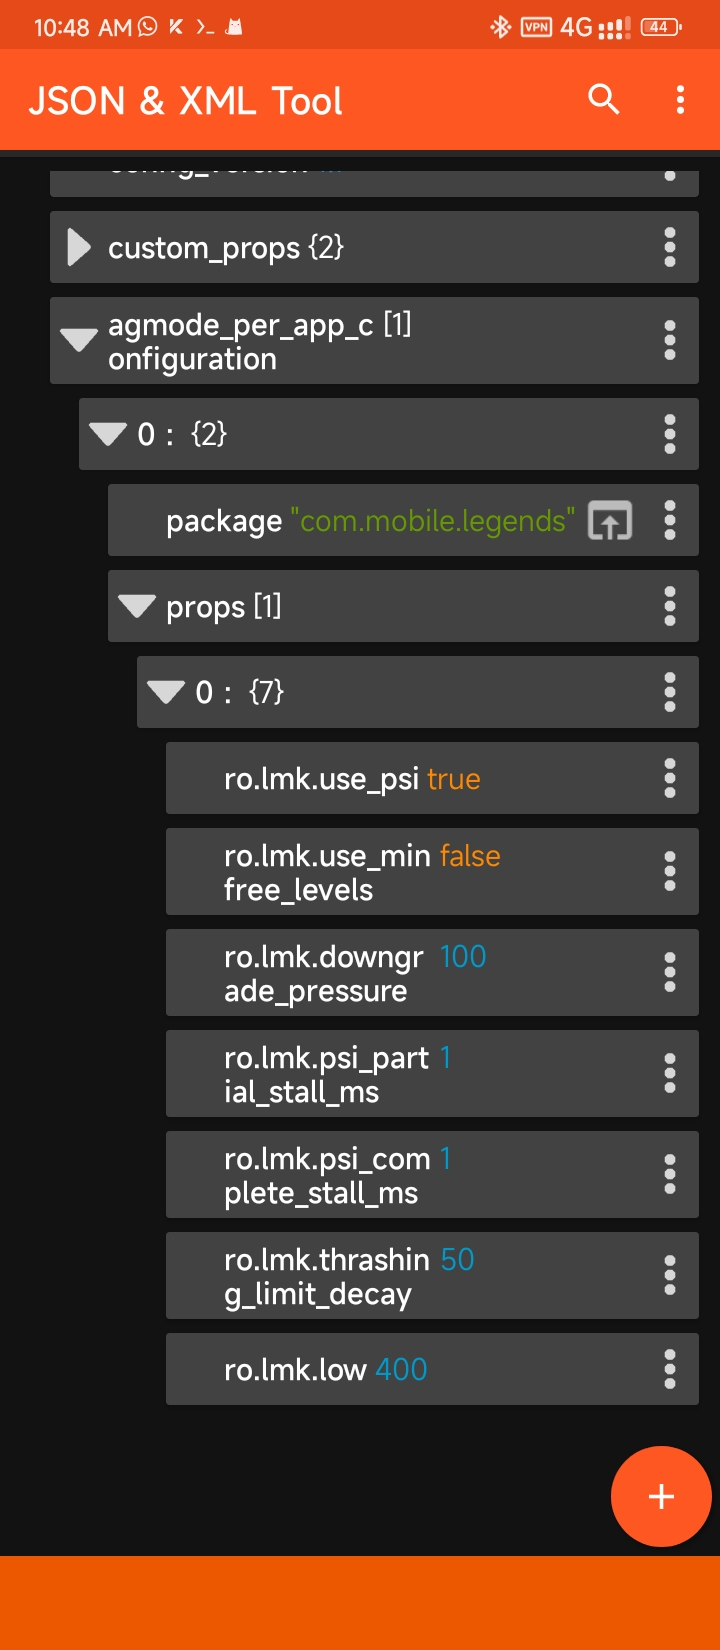
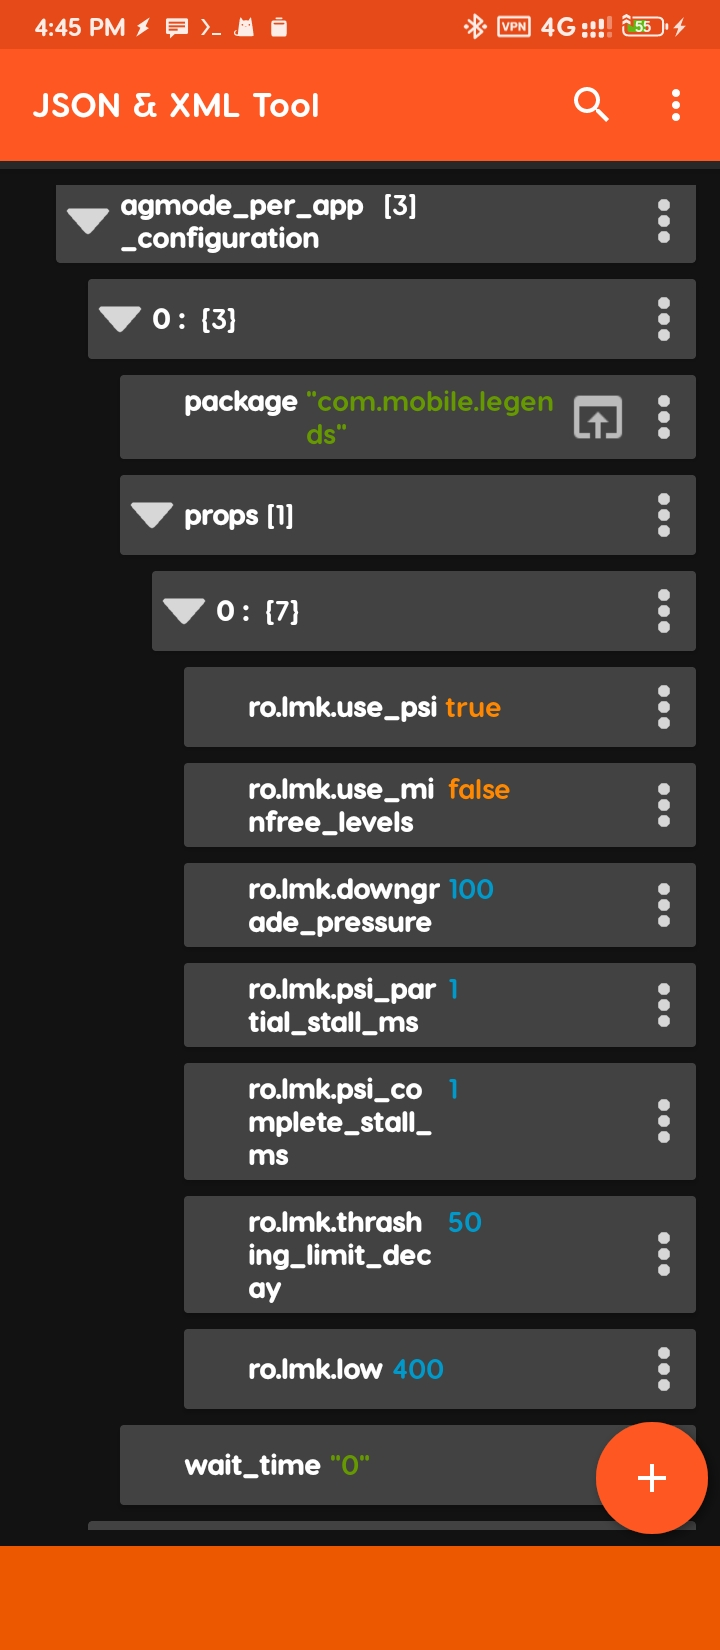
docs: fix documentation mistake and add some pics
- wait_time pic
- wait_time_per_app
and update the documentation to latest version

Changed region(s): [[0.0, 0.0, 1.0, 0.9582]]

diff --git a/README.md b/README.md
@@ -1,6 +1,6 @@
 # Hi this is my first module
 
-[![GitHub all releases](https://img.shields.io/github/downloads/lululoid/meZram/total)](https://github.com/lululoid/meZram/releases) ![Static Badge](https://img.shields.io/badge/android-10%2B_-color?color=A4C639) ![Static Badge](https://img.shields.io/badge/gaming-color?color=A4C639) ![Static Badge](https://img.shields.io/badge/performance-tweaks-color?color=A4C639) 
+[![GitHub all releases](https://img.shields.io/github/downloads/lululoid/meZram/total)](https://github.com/lululoid/meZram/releases) ![Static Badge](https://img.shields.io/badge/android-10%2B_-color?color=A4C639) ![Static Badge](https://img.shields.io/badge/gaming-color?color=A4C639) ![Static Badge](https://img.shields.io/badge/performance-tweaks-color?color=A4C639)
 
 ---
 - [WHAT THIS MODULE DO?](#what-this-module-do)
@@ -37,8 +37,8 @@ You can use the following commands/options for managing this feature:
 
 <pre>
 -g | --get  Print LMKD properties
---enable    Enabling aggressive mode 
---disable   Disabling aggressive mode 
+--enable    Enabling aggressive mode
+--disable   Disabling aggressive mode
 --log [line number] Show log.
 --show      Showing config
 --reload    Reload custom props then reapply
@@ -46,7 +46,7 @@ You can use the following commands/options for managing this feature:
 --help id Untuk menampilkan bantuan dalam bahasa Indonesia.
 --rmswap    Remove SWAP from this module. Reinstall module to make new SWAP.
 --switch    Switch LMKD mode. There's two mode, psi and the other one is minfree_levels which is older and less advanced mode.
---wait-time [number]   Wait time before exiting agmode after application closed. The reason is to prevent lag and apps being killed. Fill the number with 1m for 1 minute, it could also be 30 for 30 seconds. 
+--wait-time [number]   Wait time before exiting agmode after application closed. The reason is to prevent lag and apps being killed. Fill the number with 1m for 1 minute, it could also be 30 for 30 seconds.
 
 downgrade_pressure=[value] Change ro.lmk.downgrade_pressure prop value. Value is between 0-100.
 "⚠!!! Beware not to set more than 80 in minfree_levels mode. It will break you device !!!"
@@ -68,27 +68,29 @@ Config located in internal as `meZram-config.json`. Use app like ![[JSON & XML T
 or in json format below
 <pre>
 {
-    "agmode": "on",
-    "wait_time": "0",
-    "config_version": 1.6,
-    "custom_props": {
-        "ro.lmk.use_psi": true,
-        "ro.lmk.use_minfree_levels": false,
-        "ro.lmk.downgrade_pressure": 40
-    },
-    "agmode_per_app_configuration": [
+  "agmode": "on",
+  "wait_time": "90",
+  "config_version": 1.9,
+  "custom_props": {
+    "ro.lmk.use_psi": true,
+    "ro.lmk.use_minfree_levels": false,
+    "ro.lmk.downgrade_pressure": 40
+  },
+  "agmode_per_app_configuration": [
+    {
+      "package": "com.mobile.legends",
+      "props": [
         {
-            "package": "com.mobile.legends",
-            "props": [
-                {
-                    "ro.lmk.downgrade_pressure": 100,
-                    "ro.lmk.psi_partial_stall_ms": 1,
-                    "ro.lmk.psi_complete_stall_ms": 1,
-                    "ro.lmk.thrashing_limit_decay": 50,
-                    "ro.lmk.low": 400
-                }
-            ]
+          "ro.lmk.use_psi": true,
+          "ro.lmk.use_minfree_levels": false,
+          "ro.lmk.downgrade_pressure": 100,
+          "ro.lmk.psi_partial_stall_ms": 1,
+          "ro.lmk.psi_complete_stall_ms": 1,
+          "ro.lmk.thrashing_limit_decay": 50,
+          "ro.lmk.low": 400
         }
+      ],
+      "wait_time": "0"
     ]
 }
 
@@ -112,7 +114,8 @@ Below is configuration for game mobile legends.
           "ro.lmk.thrashing_limit_decay": 50,
           "ro.lmk.low": 400
         }
-      ]
+      ],
+      "wait_time": "0"
     }
 </pre>
 Mobile legends is already in the config by default. If you want to add your game to the config, just duplicate the mobile legends config object and edit the duplicated object package value to your game package name.
@@ -133,7 +136,8 @@ To do the opposite in other word make  aggressive mode not aggressive and make l
           "ro.lmk.downgrade_pressure": 30,
           "ro.lmk.thrashing_limit_decay": 50
         }
-      ]
+      ],
+      "wait_time": "5m"
     }
 </pre>
 
@@ -142,18 +146,20 @@ To do the opposite in other word make  aggressive mode not aggressive and make l
 This prop applied at boot, to apply manually enter `agmode --reload` in terminal. Below I add `"ro.lmk.downgrade_pressure": 40` to make my phone less aggressive, so it able to hold more apps.
 ![custom_props](https://github.com/lululoid/meZram/blob/psi_variant/pic/custom_props.jpg)
 <pre>
-"custom_props": {
-        "ro.lmk.use_psi": true,
-        "ro.lmk.use_minfree_levels": false,
-        "ro.lmk.downgrade_pressure": 40
-    },
+  "custom_props": {
+    "ro.lmk.use_psi": true,
+    "ro.lmk.use_minfree_levels": false,
+    "ro.lmk.downgrade_pressure": 40
+  },
 </pre>
 
 ### WAIT_TIME
 Wait time is the amount of time to wait after aggressive mode or disaggressive mode is activated. The problem is that when applied props not enough to hold desired app when do multitasking, the app is automatically closed by system. This is to prevent that.
+![wait_time](pic/wait_time.jpg)
 
 ### PER APP WAIT_TIME
 While wait-time is useful in disaggrssive scenario, aggressive mode not gain benefit from it. The problem that when aggressive mode is activated when wait_time is set. When game or app in aggressive mode closed, the system is still in aggressive mode, so when reopen the game or app, the app or game is alraedy killed by system because of aggressive mode. By set per app wait_time, once the game or app is closed, aggressive mode immediately deactivated so it won't kill the desired app or game , assumming the system is capable to hold the game or app.
+![wait_time_per_app](pic/wait_time_per_app.jpg)
 
 ## TODO
 
